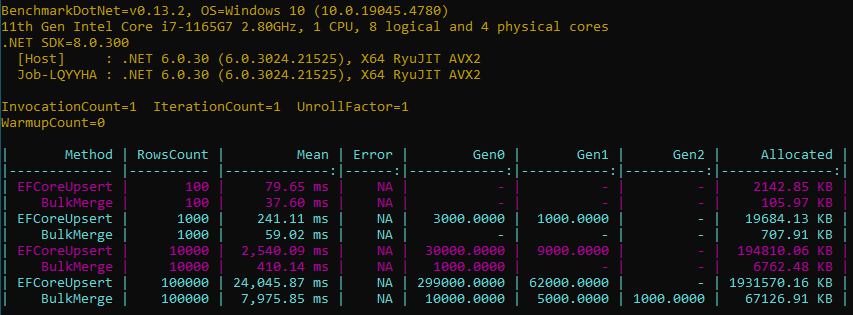
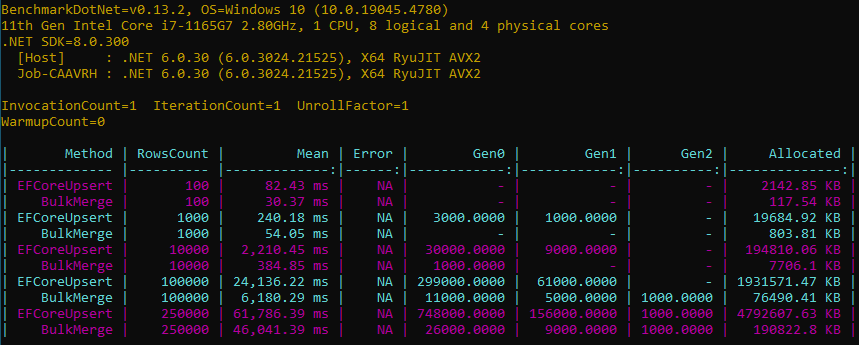
bulk merge benchmarks

Changed region(s): [[0.0, 0.4286, 1.0, 0.9714], [0.0, 0.0, 0.7315, 0.2571], [0.0, 0.2857, 0.4877, 0.4286]]

diff --git a/src/EntityFrameworkCore.SqlServer.SimpleBulks.Benchmarks/BulkMergeBenchmarks.cs b/src/EntityFrameworkCore.SqlServer.SimpleBulks.Benchmarks/BulkMergeBenchmarks.cs
@@ -17,7 +17,7 @@ namespace EntityFrameworkCore.SqlServer.SimpleBulks.Benchmarks
         private List<Guid> _customerIds;
         private List<Customer> _newCustomers;
 
-        [Params(100, 1000, 10_000, 100_000)]
+        [Params(100, 1000, 10_000, 100_000, 250_000)]
         public int RowsCount { get; set; }
 
         [IterationSetup]
@@ -102,7 +102,7 @@ namespace EntityFrameworkCore.SqlServer.SimpleBulks.Benchmarks
             customers.AddRange(_newCustomers);
 
             _context.BulkMerge(customers,
-                x => x.Index,
+                x => x.Id,
                 x => new { x.FirstName },
                 x => new { x.FirstName, x.LastName, x.Index },
                 opt =>
